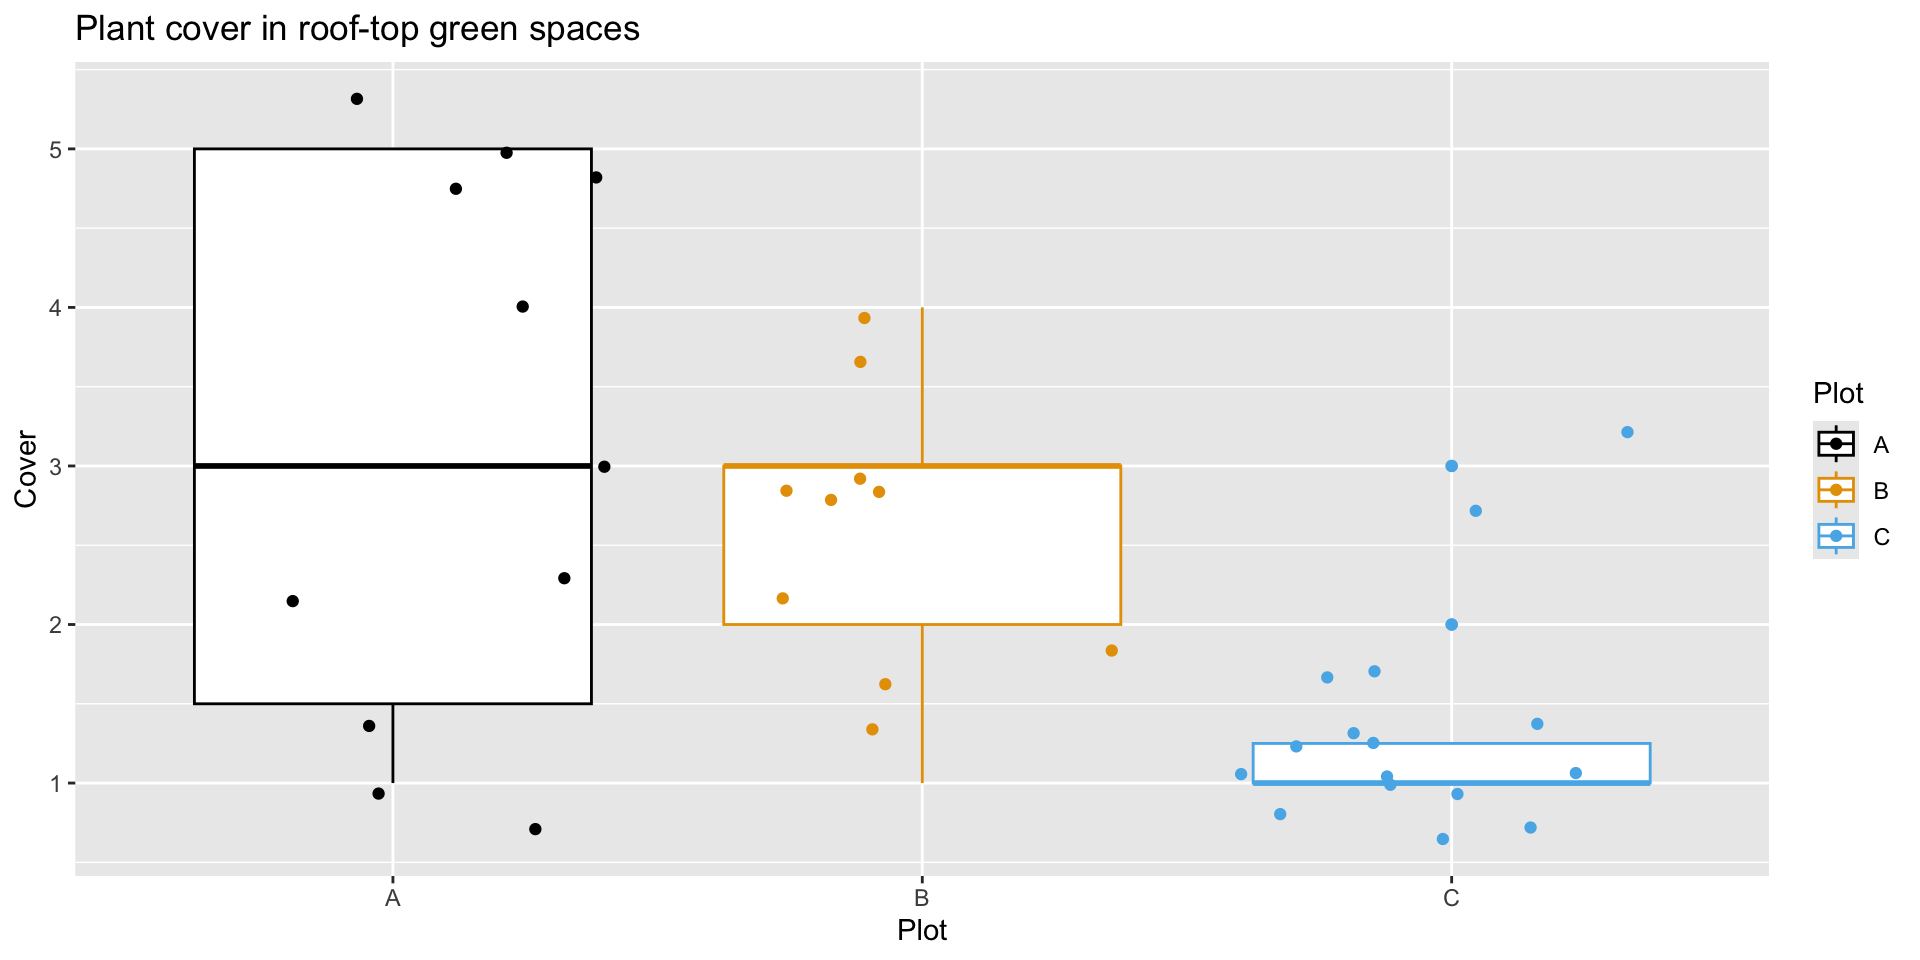
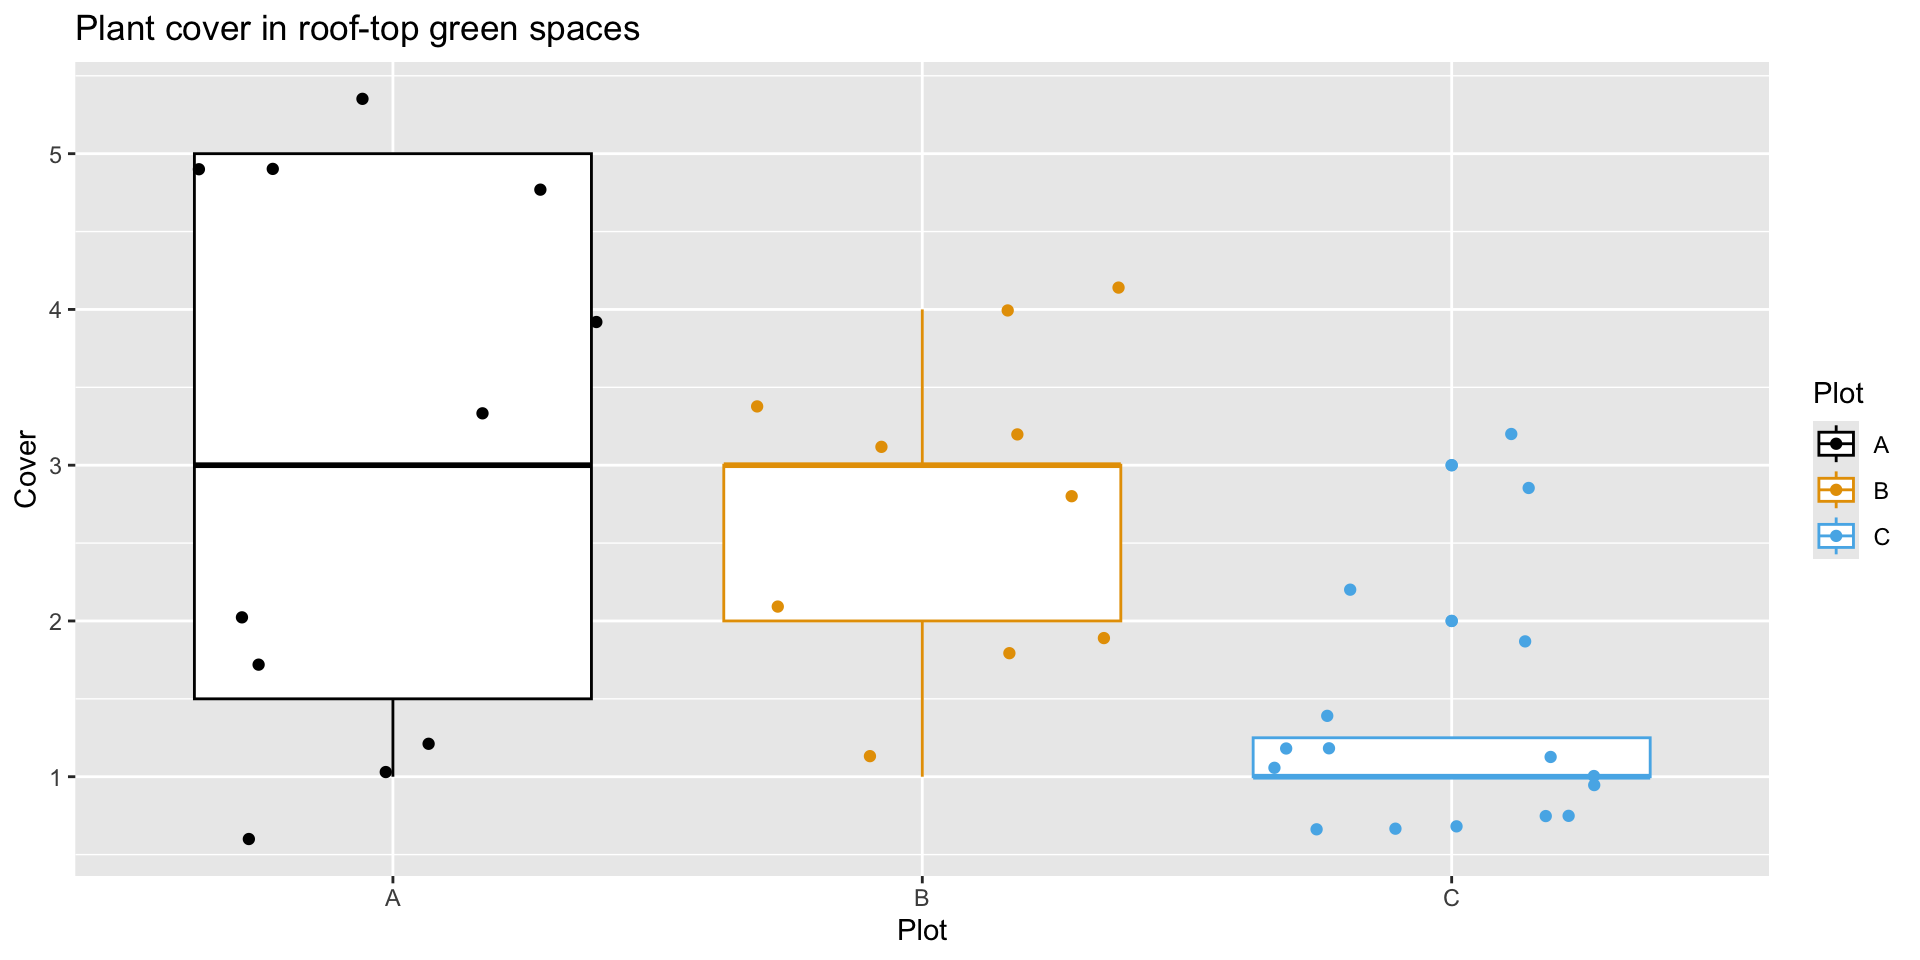
Update data

diff --git a/index.html b/index.html
@@ -847,18 +847,18 @@
 <div class="sourceCode cell-code" id="cb30"><pre class="sourceCode numberSource r number-lines code-with-copy"><code class="sourceCode r"><span id="cb30-1"><a href=""></a><span class="fu">read_csv</span>(<span class="st">"data/屋上はらっぱ植生調査 - 2025 とりまとめ.csv"</span>)</span></code><button title="Copy to Clipboard" class="code-copy-button"><i class="bi"></i></button></pre></div>
 <div class="cell-output cell-output-stdout">
 <pre><code># A tibble: 76 × 6
-   A区画区画       `大野、中野` ...3     ...4  ...5  ...6  
-   &lt;chr&gt;           &lt;chr&gt;        &lt;chr&gt;    &lt;chr&gt; &lt;chr&gt; &lt;chr&gt; 
- 1 2025/4/17       &lt;NA&gt;         &lt;NA&gt;     &lt;NA&gt;  &lt;NA&gt;  &lt;NA&gt;  
- 2 区画（A-1など） 和名         ラテン名 被度  群度  個体数
- 3 &lt;NA&gt;            &lt;NA&gt;         &lt;NA&gt;     &lt;NA&gt;  &lt;NA&gt;  &lt;NA&gt;  
- 4 &lt;NA&gt;            &lt;NA&gt;         &lt;NA&gt;     &lt;NA&gt;  &lt;NA&gt;  &lt;NA&gt;  
- 5 &lt;NA&gt;            &lt;NA&gt;         &lt;NA&gt;     &lt;NA&gt;  &lt;NA&gt;  &lt;NA&gt;  
- 6 &lt;NA&gt;            &lt;NA&gt;         &lt;NA&gt;     &lt;NA&gt;  &lt;NA&gt;  &lt;NA&gt;  
- 7 &lt;NA&gt;            &lt;NA&gt;         &lt;NA&gt;     &lt;NA&gt;  &lt;NA&gt;  &lt;NA&gt;  
- 8 &lt;NA&gt;            &lt;NA&gt;         &lt;NA&gt;     &lt;NA&gt;  &lt;NA&gt;  &lt;NA&gt;  
- 9 &lt;NA&gt;            &lt;NA&gt;         &lt;NA&gt;     &lt;NA&gt;  &lt;NA&gt;  &lt;NA&gt;  
-10 &lt;NA&gt;            &lt;NA&gt;         &lt;NA&gt;     &lt;NA&gt;  &lt;NA&gt;  &lt;NA&gt;  
+   A区画           `大野、中野`     ...3     ...4  ...5  ...6  
+   &lt;chr&gt;           &lt;chr&gt;            &lt;chr&gt;    &lt;chr&gt; &lt;chr&gt; &lt;chr&gt; 
+ 1 2025/4/17       &lt;NA&gt;             &lt;NA&gt;     &lt;NA&gt;  &lt;NA&gt;  &lt;NA&gt;  
+ 2 区画（A-1など） 和名             ラテン名 被度  群度  個体数
+ 3 &lt;NA&gt;            &lt;NA&gt;             &lt;NA&gt;     &lt;NA&gt;  &lt;NA&gt;  &lt;NA&gt;  
+ 4 A-1             ノビル           &lt;NA&gt;     1     1     1     
+ 5 A-1             ヘラオオバコ     &lt;NA&gt;     1     2     4     
+ 6 A-1             マルバヤハズソウ &lt;NA&gt;     2     4     100   
+ 7 &lt;NA&gt;            &lt;NA&gt;             &lt;NA&gt;     &lt;NA&gt;  &lt;NA&gt;  &lt;NA&gt;  
+ 8 A-2             ノビル           &lt;NA&gt;     2     2     2     
+ 9 A-2             マルバヤハズソウ &lt;NA&gt;     2     3     100   
+10 A-2             ノゲシ           &lt;NA&gt;     1     1     1     
 # ℹ 66 more rows</code></pre>
 </div>
 </div>
